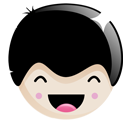
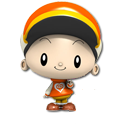
重绘Bubble背景颜色来表示高亮。（高亮文字太难看）
1.重绘Bubble背景颜色来表示高亮; 2.替换老师的头像； 3.变换麦克风位置表示正在阅读位置； 4.修正初始位置不正确的问题。

diff --git a/Voice/Voice/Classes/Cells/BubbleCell.m b/Voice/Voice/Classes/Cells/BubbleCell.m
@@ -9,6 +9,10 @@
 #import <QuartzCore/QuartzCore.h>
 #import "BubbleCell.h"
 #define TEXTLABLETAG    2003
+#define SELECTED_COLOR_R    43.0/255.0
+#define SELECTED_COLOR_G    184.0/255.0
+#define SELECTED_COLOR_B    236.0/255.0
+
 @implementation BubbleImageView
 @synthesize imgName;
 
@@ -90,6 +94,38 @@
 
 @end
 
+
+@implementation BubbleLabel
+@synthesize bUnderline;
+
+- (id)initWithFrame:(CGRect)frame
+{
+    self = [super initWithFrame:frame];
+    if (self) {
+        bUnderline = NO;
+    }
+    return self;
+}
+
+/*- (void)drawRect:(CGRect)rect {
+    if (!bUnderline) {
+        [super drawRect:rect];  
+       return;
+    }
+    CGContextRef ctx = UIGraphicsGetCurrentContext();
+    CGContextSetRGBStrokeColor(ctx, 207.0f/255.0f, 91.0f/255.0f, 44.0f/255.0f, 1.0f); // RGBA
+    CGContextSetLineWidth(ctx, 1.0f);
+    
+    CGContextMoveToPoint(ctx, 0, self.bounds.size.height - 1);
+    CGContextAddLineToPoint(ctx, self.bounds.size.width, self.bounds.size.height - 1);
+    
+    CGContextStrokePath(ctx);
+    
+    [super drawRect:rect];  
+}
+*/
+@end
+
 @implementation BubbleCell
 
 @synthesize msgText;
@@ -132,9 +168,55 @@
 {
     bHighlight = b;
     if (bHighlight) {
-        textContent.backgroundColor = [UIColor colorWithRed:0.0 green:0.0 blue:1.0 alpha:0.5];
+        // change bubble view color to blue
+        UIView* bubbleParent = bubbleView.superview;
+        [bubbleView removeFromSuperview];
+        bubbleView = nil;
+        BubbleImageView *newImage = [[BubbleImageView alloc] initWithFrame:CGRectMake(0.0, 0.0, textSize.width + 35, textSize.height + 18)];
+        
+        [newImage setBurnColor:SELECTED_COLOR_R withGreen:SELECTED_COLOR_G withBlue:SELECTED_COLOR_B];
+
+        newImage.imgName = self.imgName;
+        
+        [bubbleParent addSubview:newImage];
+        bubbleView = newImage;
+        
+        // set text color
+        textContent.textColor         = [UIColor colorWithRed:1.0 green:1.0 blue:1.0 alpha:1.0];
+        textContent.bUnderline = YES;
+        [textContent setNeedsDisplay];
+        
+        // set the microphone position
+        microphone.hidden = NO;
+        [UIView beginAnimations:nil context:nil];
+        [UIView setAnimationCurve:UIViewAnimationCurveEaseOut];
+        [UIView setAnimationTransition:UIViewAnimationTransitionFlipFromLeft forView:microphone cache:YES];
+        [UIView setAnimationDuration:0.5];
+        [UIView commitAnimations];
     } else {
-        textContent.backgroundColor = [UIColor clearColor];
+        UIView* bubbleParent = bubbleView.superview;
+        [bubbleView removeFromSuperview];
+        bubbleView = nil;
+        BubbleImageView *newImage = [[BubbleImageView alloc] initWithFrame:CGRectMake(0.0, 0.0, textSize.width + 35, textSize.height + 18)];
+        
+        [newImage setBurnColor:bgRed withGreen:bgGreen withBlue:bgBlue];
+        newImage.imgName = self.imgName;
+        
+        [bubbleParent addSubview:newImage];
+        bubbleView = newImage;
+       
+        // set text color
+        textContent.textColor         = [UIColor colorWithRed:textRed green:textGreen blue:textBlue alpha:1.0];
+        textContent.bUnderline = NO;
+        [textContent setNeedsDisplay];
+        
+        // set the microphone position
+        [UIView beginAnimations:nil context:nil];
+        [UIView setAnimationCurve:UIViewAnimationCurveEaseOut];
+        [UIView setAnimationTransition:UIViewAnimationTransitionFlipFromLeft forView:microphone cache:NO];
+        [UIView setAnimationDuration:0.5];
+        microphone.hidden = YES;
+        [UIView commitAnimations];
     }
 
 }
@@ -144,7 +226,7 @@
     CGFloat space = 0.9;
     CGFloat width = self.frame.size.width * space - startDis;
     CGSize size           = [BubbleCell calcTextHeight:self.msgText withWidth:width ];
-      
+    textSize = size;
     CGFloat bubbleImageHeight = size.height + 18;
     CGFloat iconY = bubbleImageHeight < startDis ? 0 : bubbleImageHeight - startDis;
     UIImageView* iconImage = [[UIImageView alloc] initWithFrame:CGRectMake(0, iconY, startDis, startDis)];
@@ -159,7 +241,7 @@
     UIView *newView       = [[UIView alloc] initWithFrame:CGRectMake(startDis, 0.0, width, self.frame.size.height)];
     newView.backgroundColor = [UIColor clearColor];
     newView.backgroundColor = nil;
-    UILabel *txtLabel = [[UILabel alloc] initWithFrame:CGRectMake(15 + startDis, 8, size.width, size.height)];
+    BubbleLabel *txtLabel = [[BubbleLabel alloc] initWithFrame:CGRectMake(15 + startDis, 8, size.width, size.height)];
 
     txtLabel.lineBreakMode   = UILineBreakModeWordWrap;
     txtLabel.numberOfLines   = 0;
@@ -175,10 +257,21 @@
     [txtLabel sizeToFit];
 
     [newView addSubview:newImage];
-
+    bubbleView = newImage;
     [self setBackgroundView:newView];
     [self.contentView addSubview:txtLabel];
     textContent = txtLabel;
+    
+    UIImageView* micro = [[UIImageView alloc] initWithFrame:CGRectMake(iconImage.frame.origin.x + iconImage.frame.size.width - 12, iconImage.frame.origin.y + iconImage.frame.size.height - 24, 24, 24)];
+    NSString* resourcePath = [[NSBundle mainBundle] resourcePath];
+    NSString* stringResource = @"Image";
+    resourcePath = [NSString stringWithFormat:@"%@/%@", resourcePath, stringResource];
+    UIImage* microimage = [UIImage imageWithContentsOfFile:[NSString stringWithFormat:@"%@/microphone.png",  resourcePath]];
+    micro.image = microimage;
+    [self.contentView addSubview:micro];
+    microphone = micro;
+    [micro release];
+    [microphone setHidden:YES];
     [txtLabel release];
 
     [newImage release];

diff --git a/Voice/Voice/Classes/Cells/BubbleCell.h b/Voice/Voice/Classes/Cells/BubbleCell.h
@@ -25,6 +25,14 @@
 - (UIImage*)getBurnImage;
 @end
 
+/////////////////////////////////////////////////
+@interface BubbleLabel : UILabel {
+    BOOL bUnderline;
+}
+@property (nonatomic) BOOL bUnderline;
+@end
+
+/////////////////////////////////////////////////
 @interface BubbleCell : UITableViewCell {
     NSString *msgText;
     NSString *imgName;
@@ -36,7 +44,10 @@
     CGFloat textGreen;
     CGFloat textBlue;
     BOOL    bHighlight;
-    UILabel *textContent;
+    BubbleLabel *textContent;
+    UIImageView* microphone;
+    BubbleImageView* bubbleView;
+    CGSize textSize;
 }
 
 @property (nonatomic, retain) NSString *msgText;

diff --git a/Voice/Voice/Classes/Listening/ListeningViewController.m b/Voice/Voice/Classes/Listening/ListeningViewController.m
@@ -465,6 +465,13 @@
         cell = (BubbleCell*)[self.sentencesTableView cellForRowAtIndexPath:lastpath];
         [cell setIsHighlightText:NO];
         nPosition = nCurrentIndex;
+    } else if (nCurrentIndex == 0 && nPosition == 0) {
+        NSIndexPath * path = [NSIndexPath  indexPathForRow:0  inSection:nCurrentIndex];
+        [_sentencesTableView scrollToRowAtIndexPath:path
+                                   atScrollPosition:UITableViewScrollPositionMiddle animated:YES];
+        BubbleCell* cell = (BubbleCell*)[self.sentencesTableView cellForRowAtIndexPath:path];
+        [cell setIsHighlightText:YES];
+        
     }
 }
 
